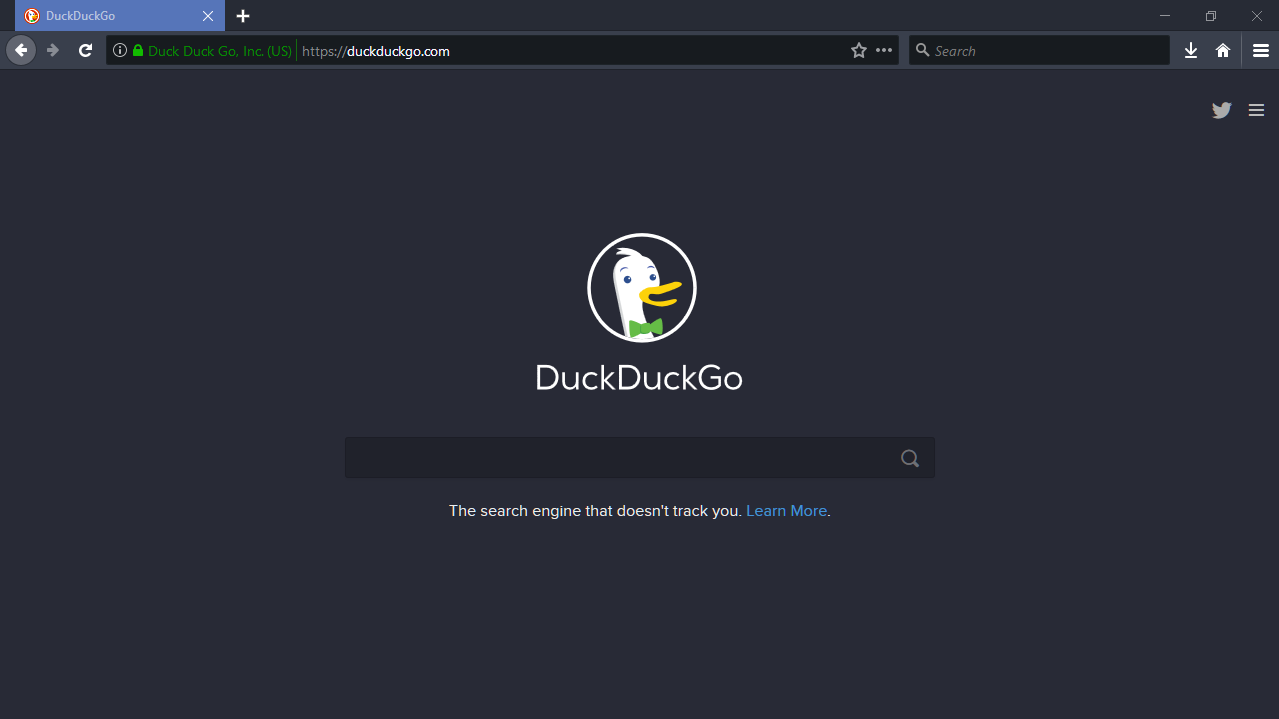
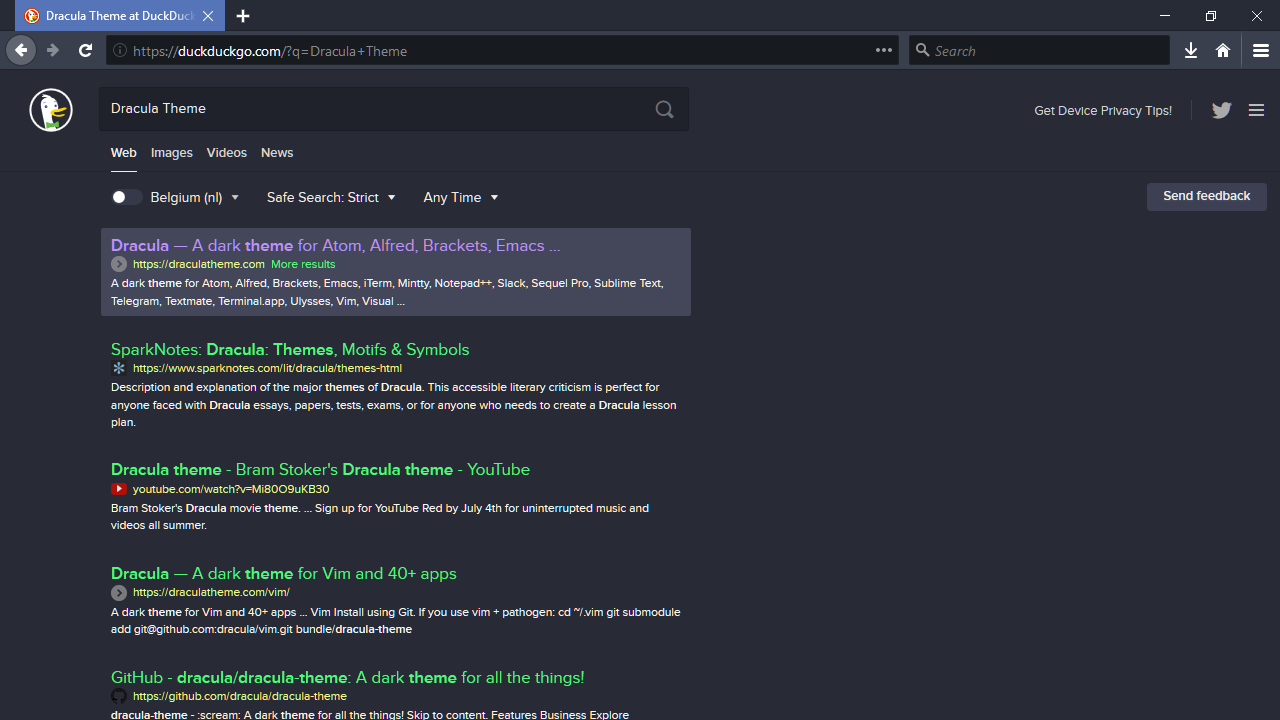
"git.maki.cat/duckduckgo" won't work for some reason...

diff --git a/index.html b/index.html
@@ -1,0 +1,60 @@
+<html>
+	<head>
+		<title>Dracula for DuckDuckGo</title>
+		<link href="https://fonts.googleapis.com/css?family=Roboto+Mono:400" rel="stylesheet">
+		<style>
+			body {
+				margin: 0;	
+				background-color: #282a36;
+				color: #fff;
+				font-family: "Roboto Mono";
+				font-weight: 400;
+				font-size: 12;
+			}
+			
+			#content {
+				position: fixed; margin: auto;
+				top: 0; right: 0; bottom: 0; left: 0;
+				width: 300px; height: 300px;
+				background-color: #44475a;
+				border-radius: 50px;
+			}
+			
+			.center {
+				display: table;
+				width: 100%;
+				height: 100%;
+				text-align: center;
+			}
+			
+			.center>div {
+				display: table-cell;
+				vertical-align: middle;
+			}
+			
+			p {
+				margin: 0;	
+			}
+			
+			h1 {
+				margin: 0;
+			}
+			
+			a, a:link, a:active, a:hover {
+				text-decoration: underline;
+				color: #50fa7b;
+			}
+		</style>
+	</head>
+	<body>
+		<div id="content">
+			<div class="center"><div>
+				<h1>Dracula Theme</h1><br>
+				<p>Drag and drop this<br>link onto your<br>bookmarks bar and<br>run whilst browsing<br>DuckDuckGo.<br><br>
+				<a href='javascript:var t=["ae=t","t=p","s=m","w=n","m=l","7=282a36","o=s","j=282a36","a=p","9=50fa7b","aa=bd93f9","u=-1","8=f8f8f2","x=f1fa8c","y=44475a","af=1","ai=1","f=1"];for(var i=0;i<t.length;i+=1){document.cookie=t[i]}alert("Appearance settings have successfully been updated!");location.reload();'>
+					Dracula for DuckDuckGo
+				</a></p>
+			</div></div>
+		</div>
+	</body>
+</html>

diff --git a/README.md b/README.md
@@ -2,12 +2,11 @@
 
 > A dark theme for [DuckDuckGo](https://duckduckgo.com).
 
-![Screenshot](https://raw.githubusercontent.com/makixx/duckduckgo/master/firefox.png)
+![Screenshot](https://raw.githubusercontent.com/makixx/dracula-for-duckduckgo/master/firefox.png)
 
 ## Install
 
-Drag and drop this bookmarklet to your bookmark bar and execute it whilst browsing DuckDuckGo.
-<a href='var t=["ae=t","t=p","s=m","w=n","m=l","7=282a36","o=s","j=282a36","a=p","9=50fa7b","aa=bd93f9","u=-1","8=f8f8f2","x=f1fa8c","y=44475a","af=1","ai=1","f=1"];for(var i=0;i<t.length;i+=1){document.cookie=t[i]}alert("Appearance settings have successfully been updated!");location.reload();'>Dracula Theme for DuckDuckGo</a>
+All instructions can be found at <a href='https://git.maki.cat/dracula-for-ddg'>https://makixx.github.io/duckduckgo</a>.
 
 ## Team
 
